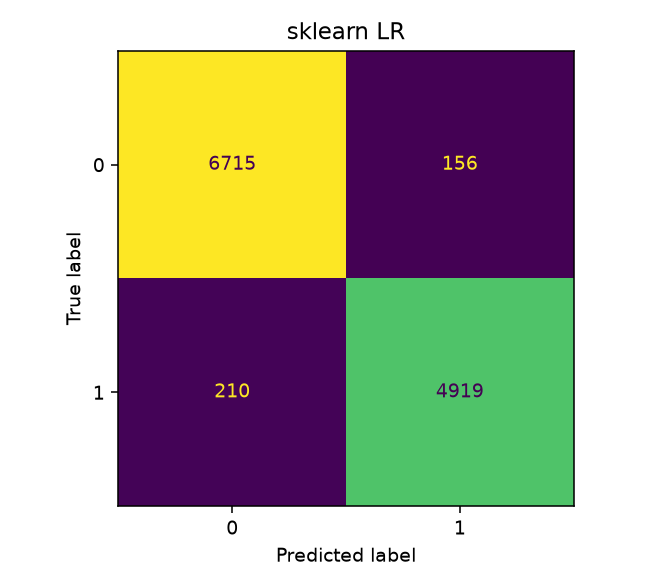
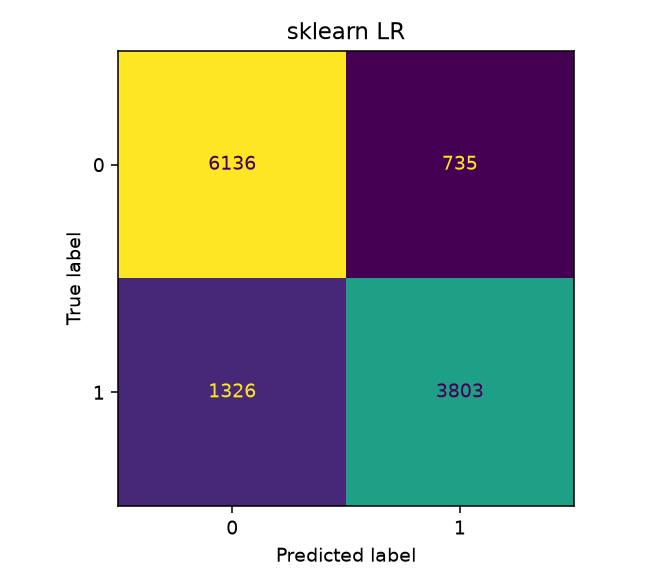
drop https feature
Strip the URL scheme before lexical counts so length and punctuation cannot encode http vs https, then retrain both models.

Changed region(s): [[0.1562, 0.4592, 0.875, 0.8571], [0.6562, 0.2449, 0.7188, 0.3061], [0.3125, 0.2449, 0.375, 0.3061]]

diff --git a/phishguard/features.py b/phishguard/features.py
@@ -27,22 +27,28 @@ NAMES = (
     "n_special",
     "n_subdomains",
     "ip_in_host",
-    "https",
     "n_suspicious",
 )
 
 
-def _host(url):
+def _parse(url):
     raw = url.strip()
     if "://" not in raw:
         raw = "http://" + raw
     return urlparse(raw)
 
 
+def _without_scheme(url):
+    raw = url.strip()
+    if "://" in raw:
+        return raw.split("://", 1)[1]
+    return raw
+
+
 def extract(url):
-    parsed = _host(url)
+    parsed = _parse(url)
+    text = _without_scheme(url)
     host = (parsed.hostname or "").lower()
-    text = url.strip()
     parts = [p for p in host.split(".") if p]
     n_sub = max(len(parts) - 2, 0)
     ip = 1.0 if host and (_IPV4.match(host) or (":" in host and _IPV6.match(host))) else 0.0
@@ -52,7 +58,6 @@ def extract(url):
         "n_special": float(len(_SPECIAL.findall(text))),
         "n_subdomains": float(n_sub),
         "ip_in_host": ip,
-        "https": 1.0 if parsed.scheme == "https" else 0.0,
         "n_suspicious": float(sum(w in text.lower() for w in SUSPICIOUS)),
     }
 

diff --git a/tests/test_features.py b/tests/test_features.py
@@ -1,17 +1,18 @@
 from phishguard.features import NAMES, extract, vector
 
 
-def test_https_and_length():
-    feats = extract("https://example.com/login")
-    assert feats["https"] == 1.0
-    assert feats["url_length"] == len("https://example.com/login")
-    assert feats["n_suspicious"] >= 1
+def test_scheme_is_stripped():
+    a = extract("https://example.com/login")
+    b = extract("http://example.com/login")
+    assert a == b
+    assert "https" not in a
+    assert a["url_length"] == len("example.com/login")
+    assert a["n_suspicious"] >= 1
 
 
-def test_ip_host_and_http():
+def test_ip_in_host():
     feats = extract("http://192.168.0.10/update")
     assert feats["ip_in_host"] == 1.0
-    assert feats["https"] == 0.0
 
 
 def test_subdomains():
@@ -21,6 +22,6 @@ def test_subdomains():
 
 def test_vector_order():
     v = vector("https://bank-secure.example.com/confirm")
+    assert "https" not in NAMES
     assert len(v) == len(NAMES)
-    assert v[NAMES.index("https")] == 1.0
     assert v[NAMES.index("n_suspicious")] >= 2

diff --git a/tests/test_cli.py b/tests/test_cli.py
@@ -24,5 +24,6 @@ def test_score_url_with_tiny_model(tmp_path):
     proba, thr, top, feats = score_url("https://secure-login.example.com/verify", bundle)
     assert 0.0 <= proba <= 1.0
     assert thr == 0.5
-    assert feats["https"] == 1.0
+    assert "https" not in feats
+    assert feats["n_suspicious"] >= 1
     assert len(top) == 5

diff --git a/README.md b/README.md
@@ -1,6 +1,6 @@
 # PhishGuard
 
-A small phishing URL detector I built to practice logistic regression. It only looks at the text of the URL: length, digit count, special characters, subdomains, whether the host is an IP, https vs http, and a short list of suspicious words.
+A small phishing URL detector I built to practice logistic regression. It only looks at the text of the URL: length, digit count, special characters, subdomains, whether the host is an IP, and a short list of suspicious words. The scheme is stripped first so length and punctuation cannot still encode http vs https.
 
 Two models get those same features. One is logistic regression written from scratch in NumPy (sigmoid, cross-entropy, gradient descent, L2). The other is sklearn's `LogisticRegression`. The decision threshold is picked on a validation set by F1, then everything is scored on a held-out test set.
 
@@ -24,12 +24,14 @@ pytest -q
 
 80,000 URLs drawn from PhiUSIIL (seed 7), stratified 70/15/15. Positive class is phishing. Numbers below are on the 12,000-row test set.
 
+I dropped the https/scheme flag because in this dataset every HTTP URL is phishing and every legitimate URL is HTTPS.
+
 | model | threshold | precision | recall | F1 | ROC-AUC |
 | --- | ---: | ---: | ---: | ---: | ---: |
-| NumPy LR | 0.25 | 0.955 | 0.970 | 0.962 | 0.993 |
-| sklearn LR | 0.40 | 0.969 | 0.959 | 0.964 | 0.994 |
+| NumPy LR | 0.35 | 0.854 | 0.714 | 0.777 | 0.842 |
+| sklearn LR | 0.25 | 0.838 | 0.741 | 0.787 | 0.844 |
 
-The two fits land in the same place. Sklearn's solver is a bit better calibrated, so its threshold sits closer to 0.5. The NumPy run needs a lower cut to get the same F1.
+The two fits stay close once they share the same scheme-free features.
 
 ![ROC curves](charts/roc.png)
 
@@ -43,6 +45,6 @@ The raw file is about 50MB and is not checked in. `python -m phishguard train` (
 
 ## Limitations
 
-Lexical features only. No HTML, no DNS, no hosting or reputation signals. In this dataset every HTTP URL is phishing and every legitimate URL is HTTPS, and digit counts are also very skewed, so the numbers above look stronger than they would on the live web. Do not use this as a real phishing filter.
+Lexical features only. No HTML, no DNS, no hosting or reputation signals. Digit counts are still very skewed toward phishing in this data, so the numbers above look stronger than they would on the live web. Do not use this as a real phishing filter.
 
 Built after my DeepLearning.AI / Stanford Online course [Supervised Machine Learning: Regression and Classification](https://www.coursera.org/account/accomplishments/verify/VW0IAEFG1VKB).
